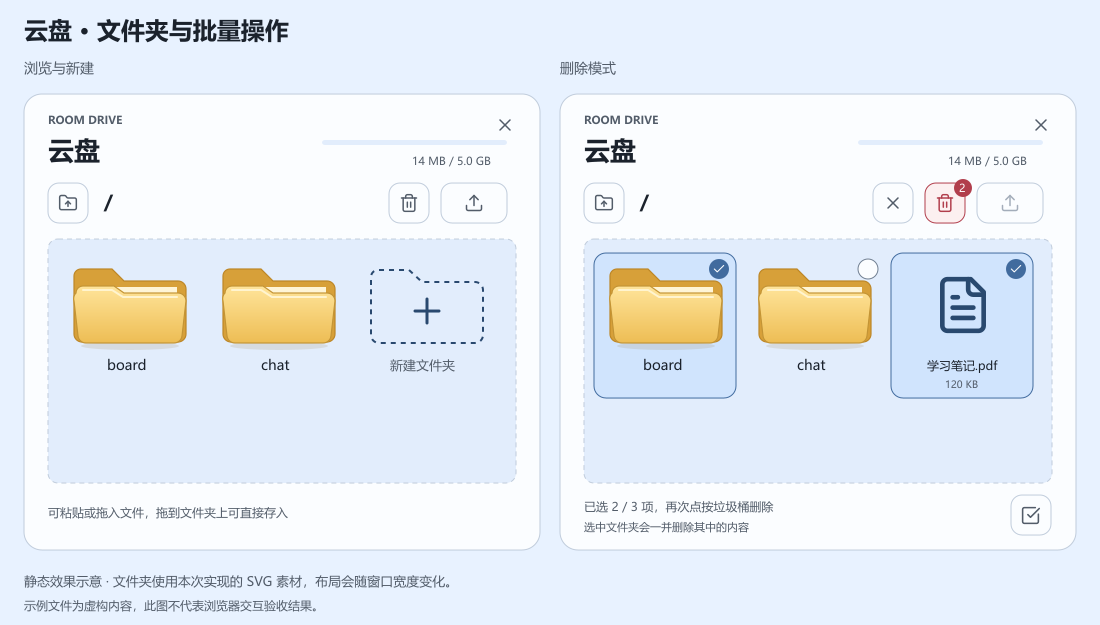
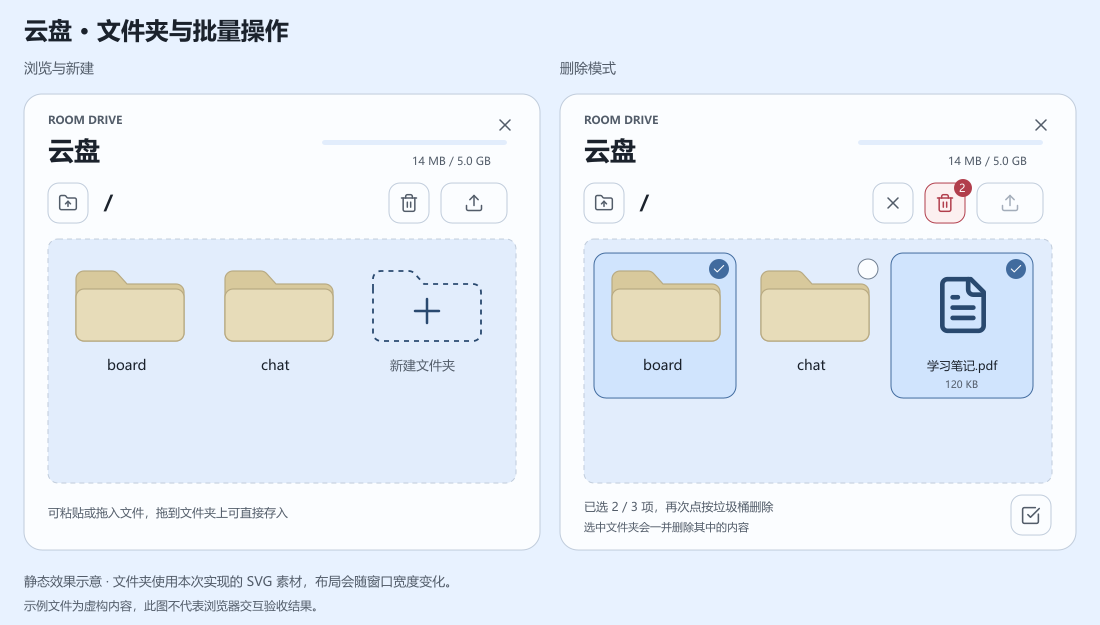
Soften folder artwork with flat muted yellow surfaces

diff --git a/app/FolderArtwork.tsx b/app/FolderArtwork.tsx
@@ -1,15 +1,8 @@
-import { useId } from "react";
-
 export function FolderArtwork({ draft = false }: { draft?: boolean }) {
-  const gradient = useId();
   return <svg className="drive-folder-art" viewBox="0 0 132 100" aria-hidden="true">
-    {draft ? <><path d="M10 31V23a7 7 0 0 1 7-7h31l13 12h53a8 8 0 0 1 8 8v45a8 8 0 0 1-8 8H18a8 8 0 0 1-8-8Z" fill="none" stroke="currentColor" strokeWidth="2" strokeDasharray="5 5" /><path d="M54 57h24M66 45v24" fill="none" stroke="currentColor" strokeWidth="3" strokeLinecap="round" /></> : <>
-      <defs><linearGradient id={gradient} x1="0" y1="0" x2="0" y2="1"><stop stopColor="#ffe49a" /><stop offset="1" stopColor="#edbd54" /></linearGradient></defs>
-      <ellipse cx="66" cy="92" rx="49" ry="4" fill="#805715" opacity=".12" />
-      <path d="M10 34V22a7 7 0 0 1 7-7h31l12 12h54a8 8 0 0 1 8 8v45a8 8 0 0 1-8 8H18a8 8 0 0 1-8-8Z" fill="#d7a039" stroke="#bd8625" strokeWidth="1.2" />
-      <path d="M20 33h93v30H20Z" fill="#fff5d6" />
-      <path d="M12 39a7 7 0 0 1 7-7h31l10 7h54a8 8 0 0 1 8 8l-4 35a8 8 0 0 1-8 7H22a8 8 0 0 1-8-7L10 47a8 8 0 0 1 2-8Z" fill={`url(#${gradient})`} stroke="#c39435" strokeWidth="1.2" />
-      <path d="M19 36h29l11 7h54" fill="none" stroke="#fff4cf" strokeWidth="2" strokeLinecap="round" />
+    {draft ? <><path d="M12 35V25a8 8 0 0 1 8-8h28a8 8 0 0 1 6 3l9 10h49a8 8 0 0 1 8 8v41a8 8 0 0 1-8 8H20a8 8 0 0 1-8-8Z" fill="none" stroke="currentColor" strokeWidth="1.8" strokeDasharray="5 5" /><path d="M54 57h24M66 45v24" fill="none" stroke="currentColor" strokeWidth="2.5" strokeLinecap="round" /></> : <>
+      <path d="M12 35V25a8 8 0 0 1 8-8h28a8 8 0 0 1 6 3l9 10h49a8 8 0 0 1 8 8v41a8 8 0 0 1-8 8H20a8 8 0 0 1-8-8Z" fill="#d8c99c" stroke="#b8aa82" strokeWidth="1.2" />
+      <rect x="12" y="35" width="108" height="52" rx="8" fill="#e7dcb9" stroke="#b8aa82" strokeWidth="1.2" />
     </>}
   </svg>;
 }

diff --git a/app/cloud-drive.css b/app/cloud-drive.css
@@ -14,7 +14,7 @@
 .cloud-drive .drive-entry-main { position: relative; display: flex; flex-direction: column; align-items: center; gap: 5px; width: 100%; min-width: 0; padding: 5px 8px 10px; border: none; background: transparent; border-radius: 12px; color: var(--ink); font: inherit; text-align: center; }
 .cloud-drive button.drive-entry-main { cursor: pointer; }
 .cloud-drive button.drive-entry-main:hover:not(:disabled) { background: color-mix(in srgb, var(--panel) 50%, transparent); }
-.drive-folder-art { width: min(132px, 100%); height: 100px; flex-shrink: 0; filter: drop-shadow(0 3px 3px rgb(100 70 10 / 7%)); }
+.drive-folder-art { width: min(132px, 100%); height: 100px; flex-shrink: 0; }
 .drive-new-folder { color: var(--muted); }
 .drive-new-folder .drive-folder-art { color: var(--theme-accent-dark); filter: none; }
 .cloud-drive .drive-entry-main strong { font-size: 13px; line-height: 1.45; font-weight: 550; max-width: 100%; overflow-wrap: anywhere; display: -webkit-box; -webkit-line-clamp: 2; -webkit-box-orient: vertical; overflow: hidden; }

diff --git a/docs/cloud-drive-redesign-2026-09-08.md b/docs/cloud-drive-redesign-2026-09-08.md
@@ -15,7 +15,7 @@
 | 3：顶部改为删除模式 | 点击垃圾桶进入选择状态，点击当前目录内的文件或文件夹进行多选，再次点击垃圾桶删除所选。未选择时再次点击退出，旁边的关闭图标也可取消。 |
 | 4：右下角出现全选 | 删除模式下显示全选图标，再次点击取消全选，按钮状态与已选数量同步。 |
 | 5：列表中新建文件夹 | 虚线加号文件夹位于最后一个现有文件夹之后、文件列表之前；点击立即出现新文件夹的命名输入并选中默认名称，Enter 或失去焦点时保存，Esc 取消。创建失败保留输入供修改。 |
-| 6：整体文件夹造型 | 自行绘制黄色文件袋 SVG，包含页签、浅色纸张及前袋的渐变与阴影，普通文件夹不再套白色方框。删除选中或拖放悬停时才显示边界提示。 |
+| 6：整体文件夹造型 | 自行绘制黄色文件袋 SVG，后续按用户反馈改为低饱和米黄色的平面风格，用两层纯色区分页签与前袋，去除纸张、高光及投影。普通文件夹不再套白色方框，删除选中或拖放悬停时才显示边界提示。 |
 | 7：增加上传方式 | 文件选择器支持多选，云盘内支持粘贴文件或截图；拖放到空白处上传到当前目录，拖放到可见子文件夹上传到该目录，并显示目标提示。 |
 
 删除模式会明确显示所选数量，选择文件夹时会一并删除其中内容。第二次点击垃圾桶即执行，不再逐项弹出确认框；删除只覆盖当前可见列表中选中的路径，操作期间不能修改选择或切换目录。部分删除失败时移除成功项，保留失败项的选择与错误信息，避免把整批误报为成功。
